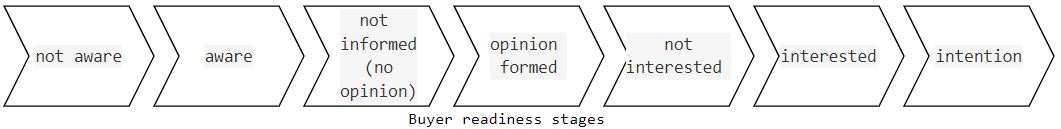
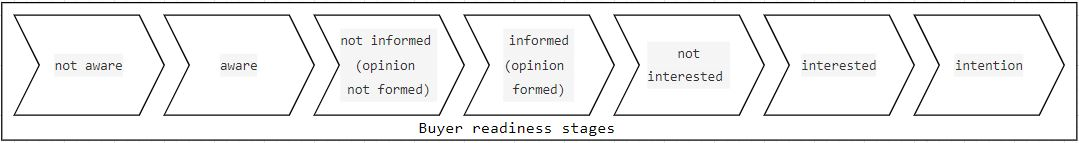
more

Changed region(s): [[0.0, 0.0, 1.0, 0.9922], [0.6221, 0.3101, 0.6532, 0.4031]]

diff --git a/index.html b/index.html
@@ -9,8 +9,9 @@
 <body>
 <pre>
 <a href="https://onlinecourses.swayam2.ac.in/imb22_mg16/course" target="_blank" rel="noopener noreferrer">Introduction to Marketing Essentials</a>                                                                                                                                         <cite>ജയകുമാർ നായർ തയ്യാറാക്കിയത്</cite>
-
-<b>Marketing</b> is a societal process by which individuals and groups obtain what they need and want by creating, offering and freely exchanging products and services of value with others, definition by Kotler        
+<hr>
+<b>Introduction</b>
+Marketing is a societal process by which individuals and groups obtain what they need and want by creating, offering and freely exchanging products and services of value with others, definition by Kotler        
 
 - societal process, A society survives by consuming and seller supply the goods for consuming
 - needs and wants, basically customer requirements, need is emotional or feeling and want is material which will satisfy your need
@@ -20,7 +21,8 @@
 - freely exchanging, seller and customer should have alternatives to do the exchanging
 - products and services, its the want part. Product is tangible and service is intangible
 
-Another <b>Marketing</b> def it is the process of planning and executing the conception, pricing, promotion and distribution of idea, goods and services to create exchanges that satisfy individual and org goals    
+Another def, <b>marketing</b> it is the process of planning and executing the conception, pricing, promotion and distribution of idea, goods and services to create exchanges that satisfy individual 
+and org goals. One more, <b>marketing</b> is all about understanding the requirements of your customers and satisfying them more effectively than your competitors
 
 <b>Entities that can be marketed</b> Goods, Services, Events, Experiences, Persons, Places, Properties, Organizations, Information, Ideas   
 
@@ -31,13 +33,12 @@ Another <b>Marketing</b> def it is the process of planning and executing the con
 
 A <b>marketing strategy</b> refers to a business's overall game plan for reaching prospective consumers and turning them into customers of their products or services
 
-<b>Building blocks of marketing strategy</b> 
-- breaking the market into segments 
-- selecting one specific segment or two-three segments
-- identify competitors on the selected segments
-- designing a set of meaningful differences to distinguish the company’s offerings from competitor’s offerings for the selected segments
-- create a positive image in the mind of the prospective consumers to maximize the potential benefit to the firm
-
+<b>Basic building blocks of marketing strategy</b> 
+- divides the market into various homogeneous groups based on some common parameters through segmentation
+- oranization 'targets' a market by selecting one or more identified segments and concentrating on those segments
+- distinguish company’s offerings from competitor’s offerings through differentiation
+- create a positive image in the minds of consumers through positioning.
+<hr>
 <b>Segmentation</b>
 - The process of dividing the market into various homogeneous groups based on some common parameters is called 'Segmentation'
 - Fundamental "bases for segmentation" of consumer market. They are as follows, 
@@ -47,7 +48,7 @@ A <b>marketing strategy</b> refers to a business's overall game plan for reachin
     4.behavioral(how) ie, customers approach to making purchase decision and usage of the product or service
 - The term 'demographics' indicates vital and measurable statistics of human population. ie, age, gender, marital status, education, occupation, income and family size
 - Segmentation based on the internal self of consumers is known as psychographic segmentation
-- Behavioral segmentation divides a population based on their behaviour
+- Behavioral segmentation divides a population based on their behaviour and these behaviour can be categorized based on
     1.needs and benefits, eg: in case of pad locks, jewellery safety is the need and jewellery worth is the benefit
     2.decision roles 
         <img src="images/decision-roles.JPG" width="20%">
@@ -55,7 +56,7 @@ A <b>marketing strategy</b> refers to a business's overall game plan for reachin
         #user status
             <img src="images/user-non-user.JPG" width="8%">
         #buyer readiness
-            <img src="images/buyer-readiness-stages.JPG" width="45%">
+            <img src="images/buyer-readiness-stages.JPG" width="55%">
         #usage rate
             @heavy user, somebody uses shampoo two times or three times a day
             @light user, somebody uses shampoo once a week
@@ -65,7 +66,7 @@ A <b>marketing strategy</b> refers to a business's overall game plan for reachin
             @shifting loyals, shift between 10 or more brands. However, shifting loyals is less loyal than split loyals
             @switchers, with no loyalty. Keep switching even when they liked a brand this is because they want to experience new things
         #purchase occasion, ie, special occasion like festivals or office party or your regular purchase
-
+<hr>
 <b>Targeting</b>
 - Targeting means selecting one or more identified segments and concentrating on those segments rather than the whole market
 - The criteria for selecting the target market/s are 
@@ -82,14 +83,14 @@ A <b>marketing strategy</b> refers to a business's overall game plan for reachin
 <u>Example for Targeting Strategies</u>, 
 A hypothetical company which has 3 product lines(cosmetics, apparels, shoes), bases of segmentation is age & gender , 3 targeted segments - female teens(13-19), ladies of adults(25-35) and elders(more than 50)
 
-<img src="images/targeting-strategies.JPG" alt="">
-
+<img src="images/targeting-strategies.JPG" alt="" width="98%">
+<hr>
 <b>Differentiation</b>
 - Differentiation is the act of designing a set of meaningful differences to distinguish the company’s offerings from competitor’s offerings.
 - Undifferentiated marketing assumes the lack of significant differences among the consumers and their requirements.
 - A niche market is the subset of an identified segment on which a specific product is focused. 
 - Differentiation Parameters include 
-    1.product differentiation based on the product attributes like forms, feature, performance, conformance, durability, reliability, style/design
+    1.product differentiation based on the product attributes like forms(physical structure), feature, performance, conformance, durability, reliability, repairability, style/design
     2.service differentiation like ordering ease, delivery, installation, customer training, customer consulting, maintenance and repair
     3.personnel differentiation like competence (കഴിവ്), courtesy (മര്യാദ), credibility (വിശ്വാസയോഗ്യമായ), reliability (വിശ്വാസയോഗ്യമായ), responsiveness (പ്രതികരണം), effective communication
     4.channel and imagery differentiation
@@ -99,13 +100,58 @@ A hypothetical company which has 3 product lines(cosmetics, apparels, shoes), ba
     2.industry level, aerated drinks industry
     3.form level, drinks industry
     4.generic level, all available products for the same price point
-
+<hr>
 <b>Positioning</b>
 - Positioning means creating a positive image in the minds of consumers.
 - Deciding on a positioning requires
     1.determining a frame of reference, Apple understood that using the old dump land phone as a frame of reference made the device instantly familiar to the masses
-    2.identifying the optimal points of parity and points of difference ie similarity and dissimilarities
+    2.identifying the optimal points of parity(POP) and points of difference(POD) ie similarity and dissimilarities
     3.creating a brand mantra to summarize the positioning and essence of the brand
+<hr>
+<b>4Ps</b> are the tools for marketing strategy otherwise known as marketing mix
+- Product
+- Price
+- Place
+- Promotion
+<hr>
+<b>Product</b> 
+- A product is anything that can be offered to the market to satisfy a need or want. eg, Goods, Services, Events, Experiences, Persons, Places, Properties, Organizations, Information, Ideas
+- A product can be visualized in multiple levels. The levels are: Core level, Basic Product, Expected Product, Augmented Product and Potential Product.
+    1 core benefit of a hotel is to provide a place to rest or sleep when away from home
+    2 basic benefits in hotel room includes a bed, a bathroom, towel, desk, etc. Basic products through which the core benefit is delivered
+    3 expected product is the set of attributes that the consumers normally expect when they buy the product like a fresh towel, clean bed, new soap,a fan and whatever when they book a hotel room
+    4 augmented product the one in which exceeds customer expectation which leads to happiness or customer delight like free dinner, a mini bar. Expected & Augmented depends on what the market is offering
+    5 potential product covers all possible augmentations and all possible transformations that a product may go through in future leads to customer delight. Like complimentary spa treatment, all wines etc
+- Products are generally classified into four types. They are: convenience goods, shopping goods, specialty goods and unsought goods
+- A product mix is also called product assortment, which is the set of all products and items a particular seller offers for sale.
+- A product mix for any organization has got 4 properties: Length, Breadth, Depth and Consistency.
+- Brands is defined as a name, term, sign, symbol, design or combination of them, intended to identify the goods and services of one seller or group of sellers and differentiate them from competitors.
+- Brand related decisions include: brand sponsor decision, brand name decision and brand strategy decision.
+
+Depiction of Product Levels
+<img src="images/depiction-of-product-levels.JPG" width="15%"
+<hr>
+
+
+
+
+
+
+
+
+
+
+
+
+
+
+
+
+
+
+
+
+
 
 For a <b>product to be successful</b>, its very important that it is communicated in
 - right Way

diff --git a/week4.html b/week4.html
@@ -1,0 +1,78 @@
+<!DOCTYPE html>
+<html>
+<head>
+    <meta charset='utf-8'>
+    <meta http-equiv='X-UA-Compatible' content='IE=edge'>
+    <title>Week 4</title>
+    <link rel="shortcut icon" href="images/intromarketingessentials.png" type="image/x-icon">
+</head>
+<body>
+    <pre>
+        Week 4
+
+        talk about marketing strategy through 4 Ps—product, price, and place, promotion
+        very important concept in marketing known as marketing mix or popularly called as '4Ps'
+        Objective
+        Define the term 'product'
+        Describe the various levels of product and different product classifications
+        Demonstrate the product mix concepts
+        Explain branding and branding decisions
+        A <b>marketing strategy</b> refers to a business's overall game plan for reaching prospective consumers and turning them into customers of their products or services
+        Marketing strategy is about achieving your marketing objectives through proper analysis of the marketing mix namely
+            Product
+            Price
+            Place
+            Promotion
+        proper combination of these four elements (4Ps) is the key to the success of any marketing process.
+        Product is a major carrier of consumer value
+        To achieve market leadership, firms must offer products of superior quality that provide unsurpassed customer value
+
+
+        Product 
+        A product is anything that can be offered to the market to satisfy a need or want.
+A product can be visualized in multiple levels. The levels are: Core level, Basic Product, Expected Product, Augmented Product and Potential Product.
+Products are generally classified into four types. They are: convenience goods, shopping goods, specialty goods and unsought goods
+A product mix is also called product assortment, which is the set of all products and items a particular seller offers for sale.
+A product mix for any organization has got 4 properties: Length, Breadth, Depth and Consistency.
+Brands is defined as a name, term, sign, symbol, design or combination of them, intended to identify the goods and services of one seller or group of sellers and differentiate them from competitors.
+Brand related decisions include: brand sponsor decision, brand name decision and brand strategy decision.
+
+
+A product can be visualized in multiple levels. And each of these level contribute
+synergistically to create the product. The levels are core, basic, expected, augmented, and
+potential. I'll talk about this a little more. See, the first one is the core product level. As the
+name suggests, it is the core. This explains the reason for which the consumer is making the
+purchase. This level explains the reason "why". The "why" of buying the product or the core
+benefit of buying the product. Let's take the example of a hotel. In hotel, when a customer is
+checking in, essentially he is buying rest and sleep, that is, the core reason. However, this
+core is expressed through the basic product. The basic product is one through which the
+core benefit is delivered to the customer. So, continuing with the same example of a hotel, a
+hotel room includes a bed, a bathroom, towel, desk, etc. So, these are the basic benefits, the
+basic products through which the core benefit is extrapolated. The core benefit is delivered.
+
+The next level is the expected product. So, the expected product is the set of attributes that
+the consumers normally expect when they buy the product. So, when a customer books a
+hotel room, you'll be expecting a fresh towel, clean pillows, clean bed, new soap, a working
+TV, a fan, AC, whatever. Now, you must have guessed it by now that it is expected is a
+function of what others are doing. Expected product depends upon the market. That is what
+the other hotels are providing. If all other hotels are providing HDTV with cable channels,
+then that is expected. If they are not providing, then it is not be expected, it will be
+augmented.
+
+So, that leads to the fourth level of product, which is augmented product. The one in which
+the attributes that exceeds customer expectation, which leads to happiness or in marketing
+terms it is called customer delight. So, if I take the same example of hotel room, the
+customers find that hotel room provides free dinner, complimentary breakfast, probably a
+fruit basket, probably a mini bar inside, probably a set of DVD players. So, these are the kind
+of things that make people happy. So, this is augmented. See, again I am repeating, this
+expected and augmented, they depend upon what the market is offering.
+
+The last level of the product is the potential product. A potential product covers all possible
+augmentations and all possible transformations that a product may go through in future,
+which leads to customer delight. So, a library of DVD collections, complimentary spa
+treatment, range of exotic gourmet food, wines—all these let your imagination go wild—all
+these things will have when you travel next, probably.
+
+    </pre>
+</body>
+</html>

diff --git a/detailed-index.html b/detailed-index.html
@@ -252,6 +252,7 @@
             furnitures, mobile phones, etc. 
             <b>Identifing the differentiation and positioning the products</b>   
             <img src="images/differentiation2positioning.jpg" width="30%" alt="">
+            
             <b>Set of differentiation parameters</b>        
             <u>Product differentiation</u>, how marketers can differentiate based on the product attributes
             - Forms like size, shape, colors, flavors and so on and so forth
@@ -259,9 +260,10 @@
             - Performance like how the product will perform
             - Conformance to international standards like quality, promises given in the advertisements or in the promotional campaigns
             - Durability like measure of product's expected operating life
-            - Reliability means ease of fixing a malfunction
+            - Reliability means indication of consistency
+            - Repairability means ease of fixing a malfunction
             - Style/Design describes the product's aesthetics, look and feel and so on and so forth to the buyer
-            - so on and so forth
+    
             <u>Service differentiation</u>
             - Ordering ease, how easy it is for the customers to place an order with the company
             - Delivery, includes speed, accuracy, and care throughout the process of delivery
@@ -276,6 +278,7 @@
             - Reliability (വിശ്വാസയോഗ്യമായ)
             - Responsiveness (പ്രതികരണം)
             - Effective communication
+
             <u>Channel and Image differentiation</u>, 
             - The <u>channel</u> through which the product or the service that reaches customer
                 + Direct selling
@@ -290,6 +293,7 @@
             - The <u>image</u> as perceived by the consumer. The image can be created through effective communication and brand building
                 + Advertisements
                 + Promotions
+
             <b>Competition</b>, In marketing, a competitor is anyone, who provides the same offering(4Ps) to the same target segment.
             <b>Levels of competition</b>
                 - <u>Brand level</u>, (competition between only Coke and Pepsi) both the brands are comparable, offer similar kind of products, at similar price, 
@@ -337,21 +341,7 @@
             <img src="images/perceptual-mapping.jpg" width="30%" alt="">
             
             </details>
-            <details>
-    <summary>Week 4</summary> 
-        <b>Marketing strategy</b> 
-        <b>Marketing mix</b> refers to the actions or strategies or tactics a company uses to promote its brand or product in the market. A typical marketing 
-        mixing are 4Ps
-            - price strategies
-            - product strategies
-            - promotion strategies
-            - place strategies
-            <img src="images/marketingmix.jpeg" width="40%" alt="">
-        <b>Marketing strategy</b> is about achieving your marketing objectives through proper analysis of the marketing mix namely 4Ps
-        <b>Product</b>, It is a major carrier of consumer value. To achieve market leadership, firms must offer products of superior quality that provide unsurpassed 
-        customer value.
-
-    </details>
+            
     </pre>
 
     <pre>

diff --git a/week1.html b/week1.html
@@ -1,0 +1,16 @@
+<!DOCTYPE html>
+<html>
+<head>
+    <meta charset='utf-8'>
+    <meta http-equiv='X-UA-Compatible' content='IE=edge'>
+    <title>Week 4</title>
+    <link rel="shortcut icon" href="images/intromarketingessentials.png" type="image/x-icon">
+</head>
+<body>
+    <pre>
+
+        
+    </pre>
+    
+</body>
+</html>

diff --git a/week2.html b/week2.html
@@ -1,0 +1,16 @@
+<!DOCTYPE html>
+<html>
+<head>
+    <meta charset='utf-8'>
+    <meta http-equiv='X-UA-Compatible' content='IE=edge'>
+    <title>Week 4</title>
+    <link rel="shortcut icon" href="images/intromarketingessentials.png" type="image/x-icon">
+</head>
+<body>
+    <pre>
+
+        
+    </pre>
+    
+</body>
+</html>

diff --git a/week3.html b/week3.html
@@ -1,0 +1,16 @@
+<!DOCTYPE html>
+<html>
+<head>
+    <meta charset='utf-8'>
+    <meta http-equiv='X-UA-Compatible' content='IE=edge'>
+    <title>Week 4</title>
+    <link rel="shortcut icon" href="images/intromarketingessentials.png" type="image/x-icon">
+</head>
+<body>
+    <pre>
+
+        
+    </pre>
+    
+</body>
+</html>
